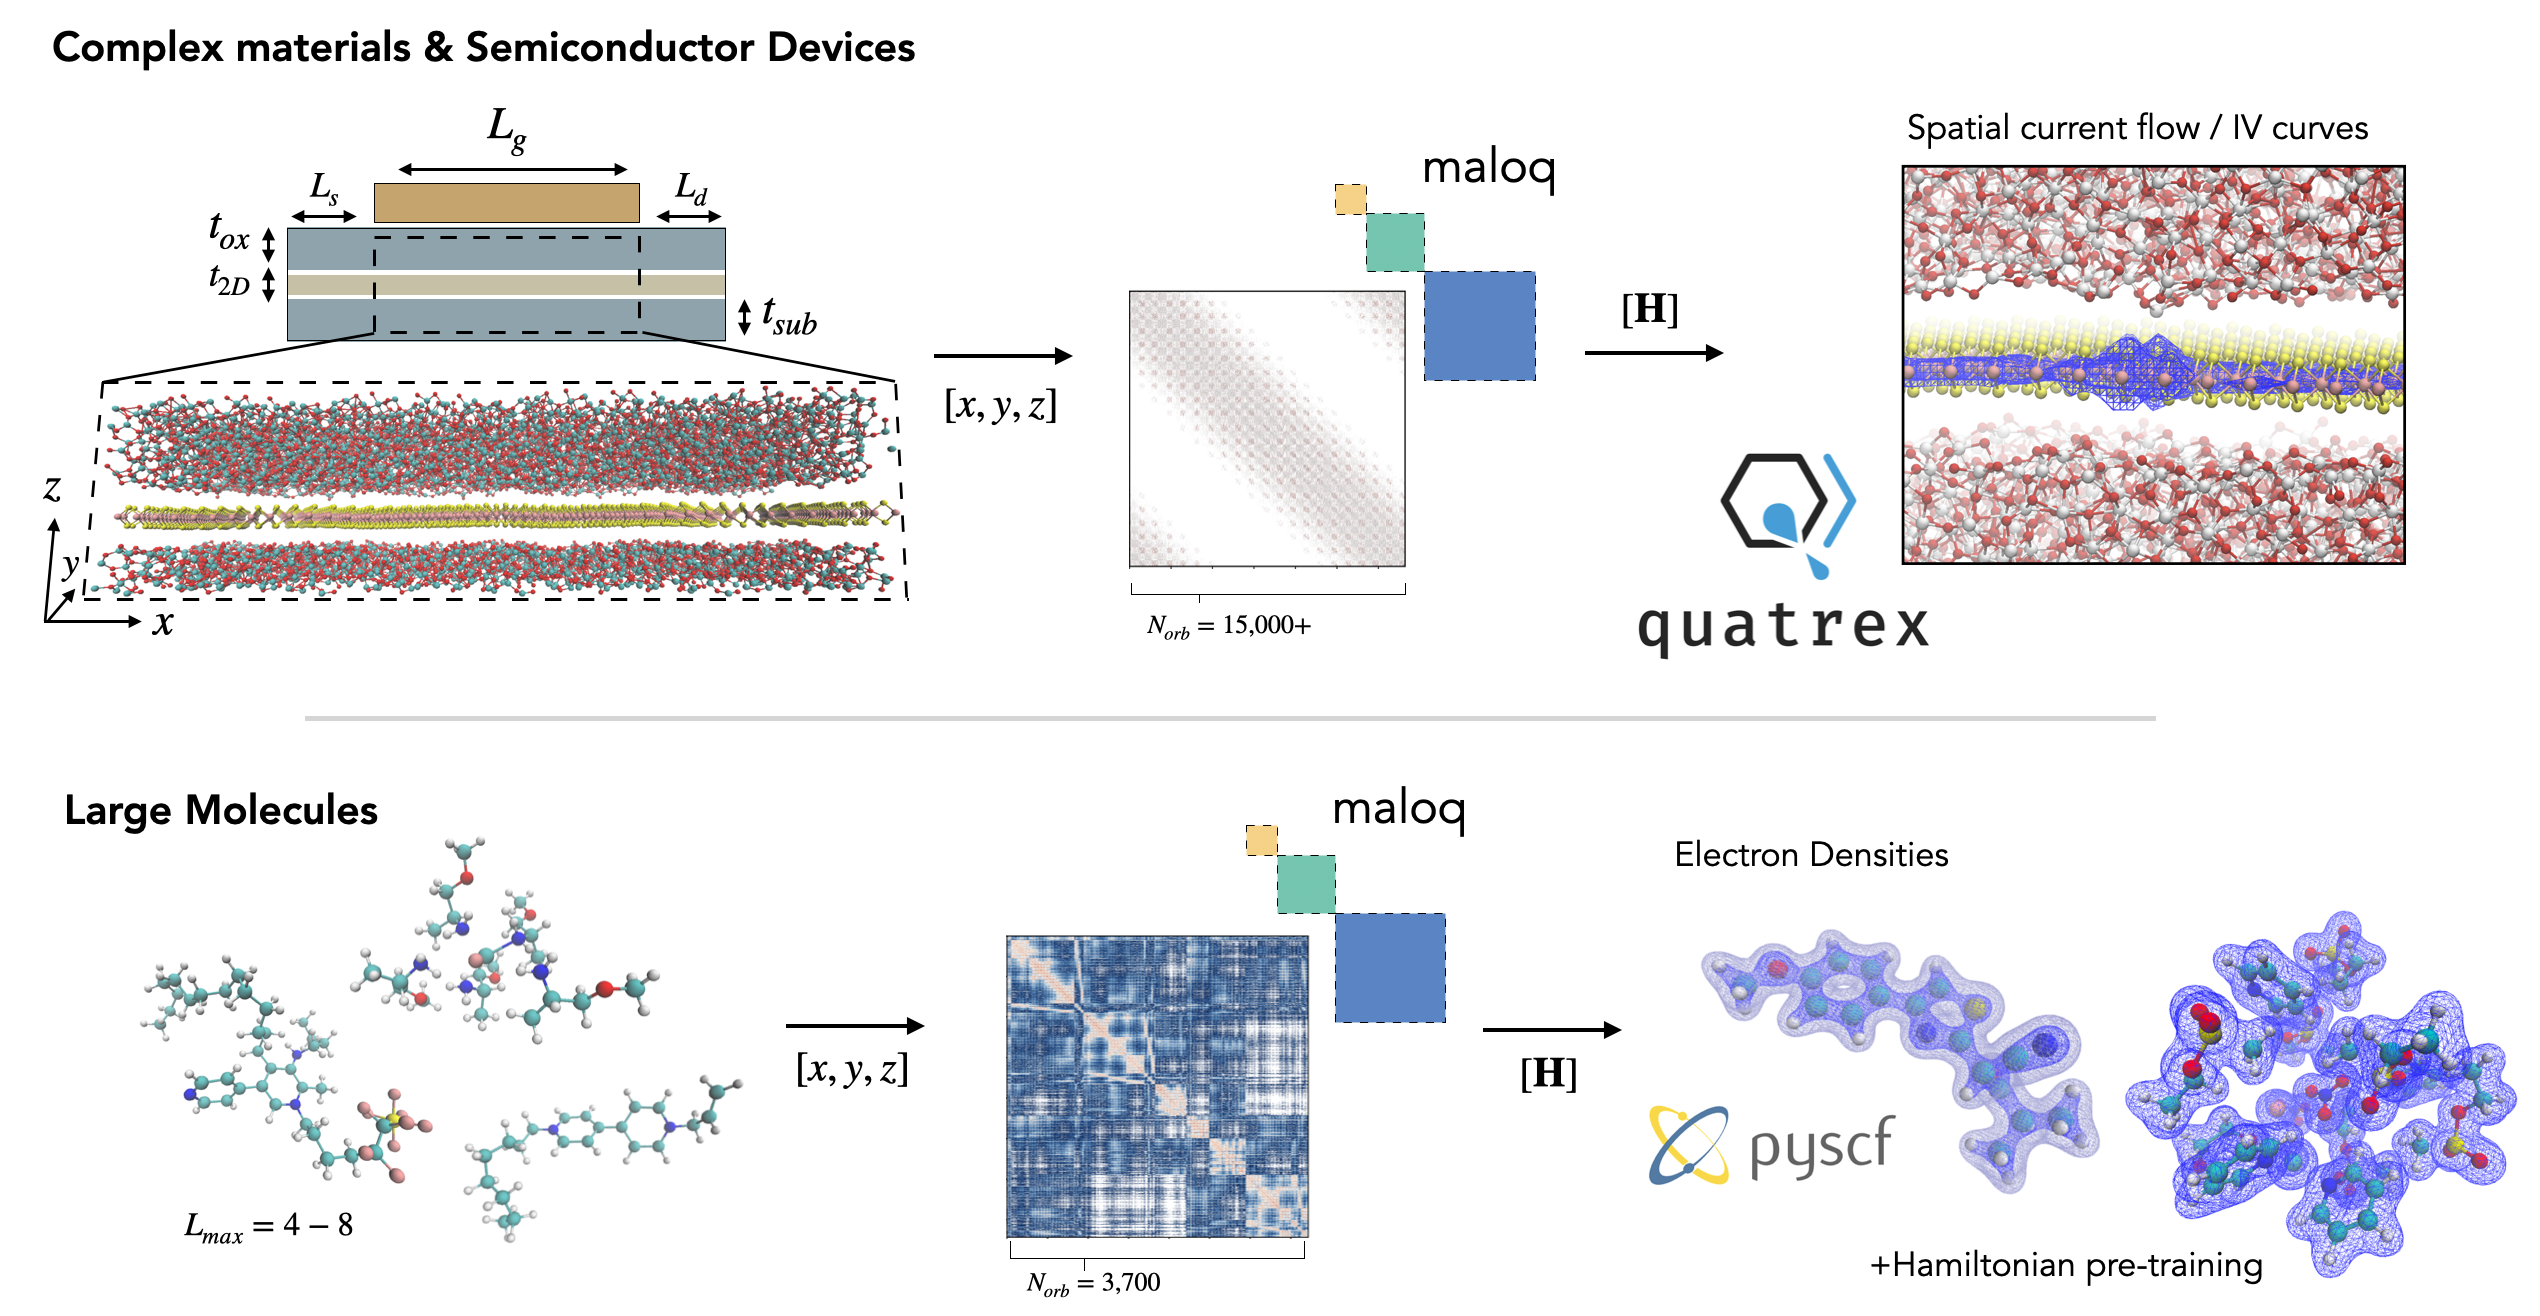
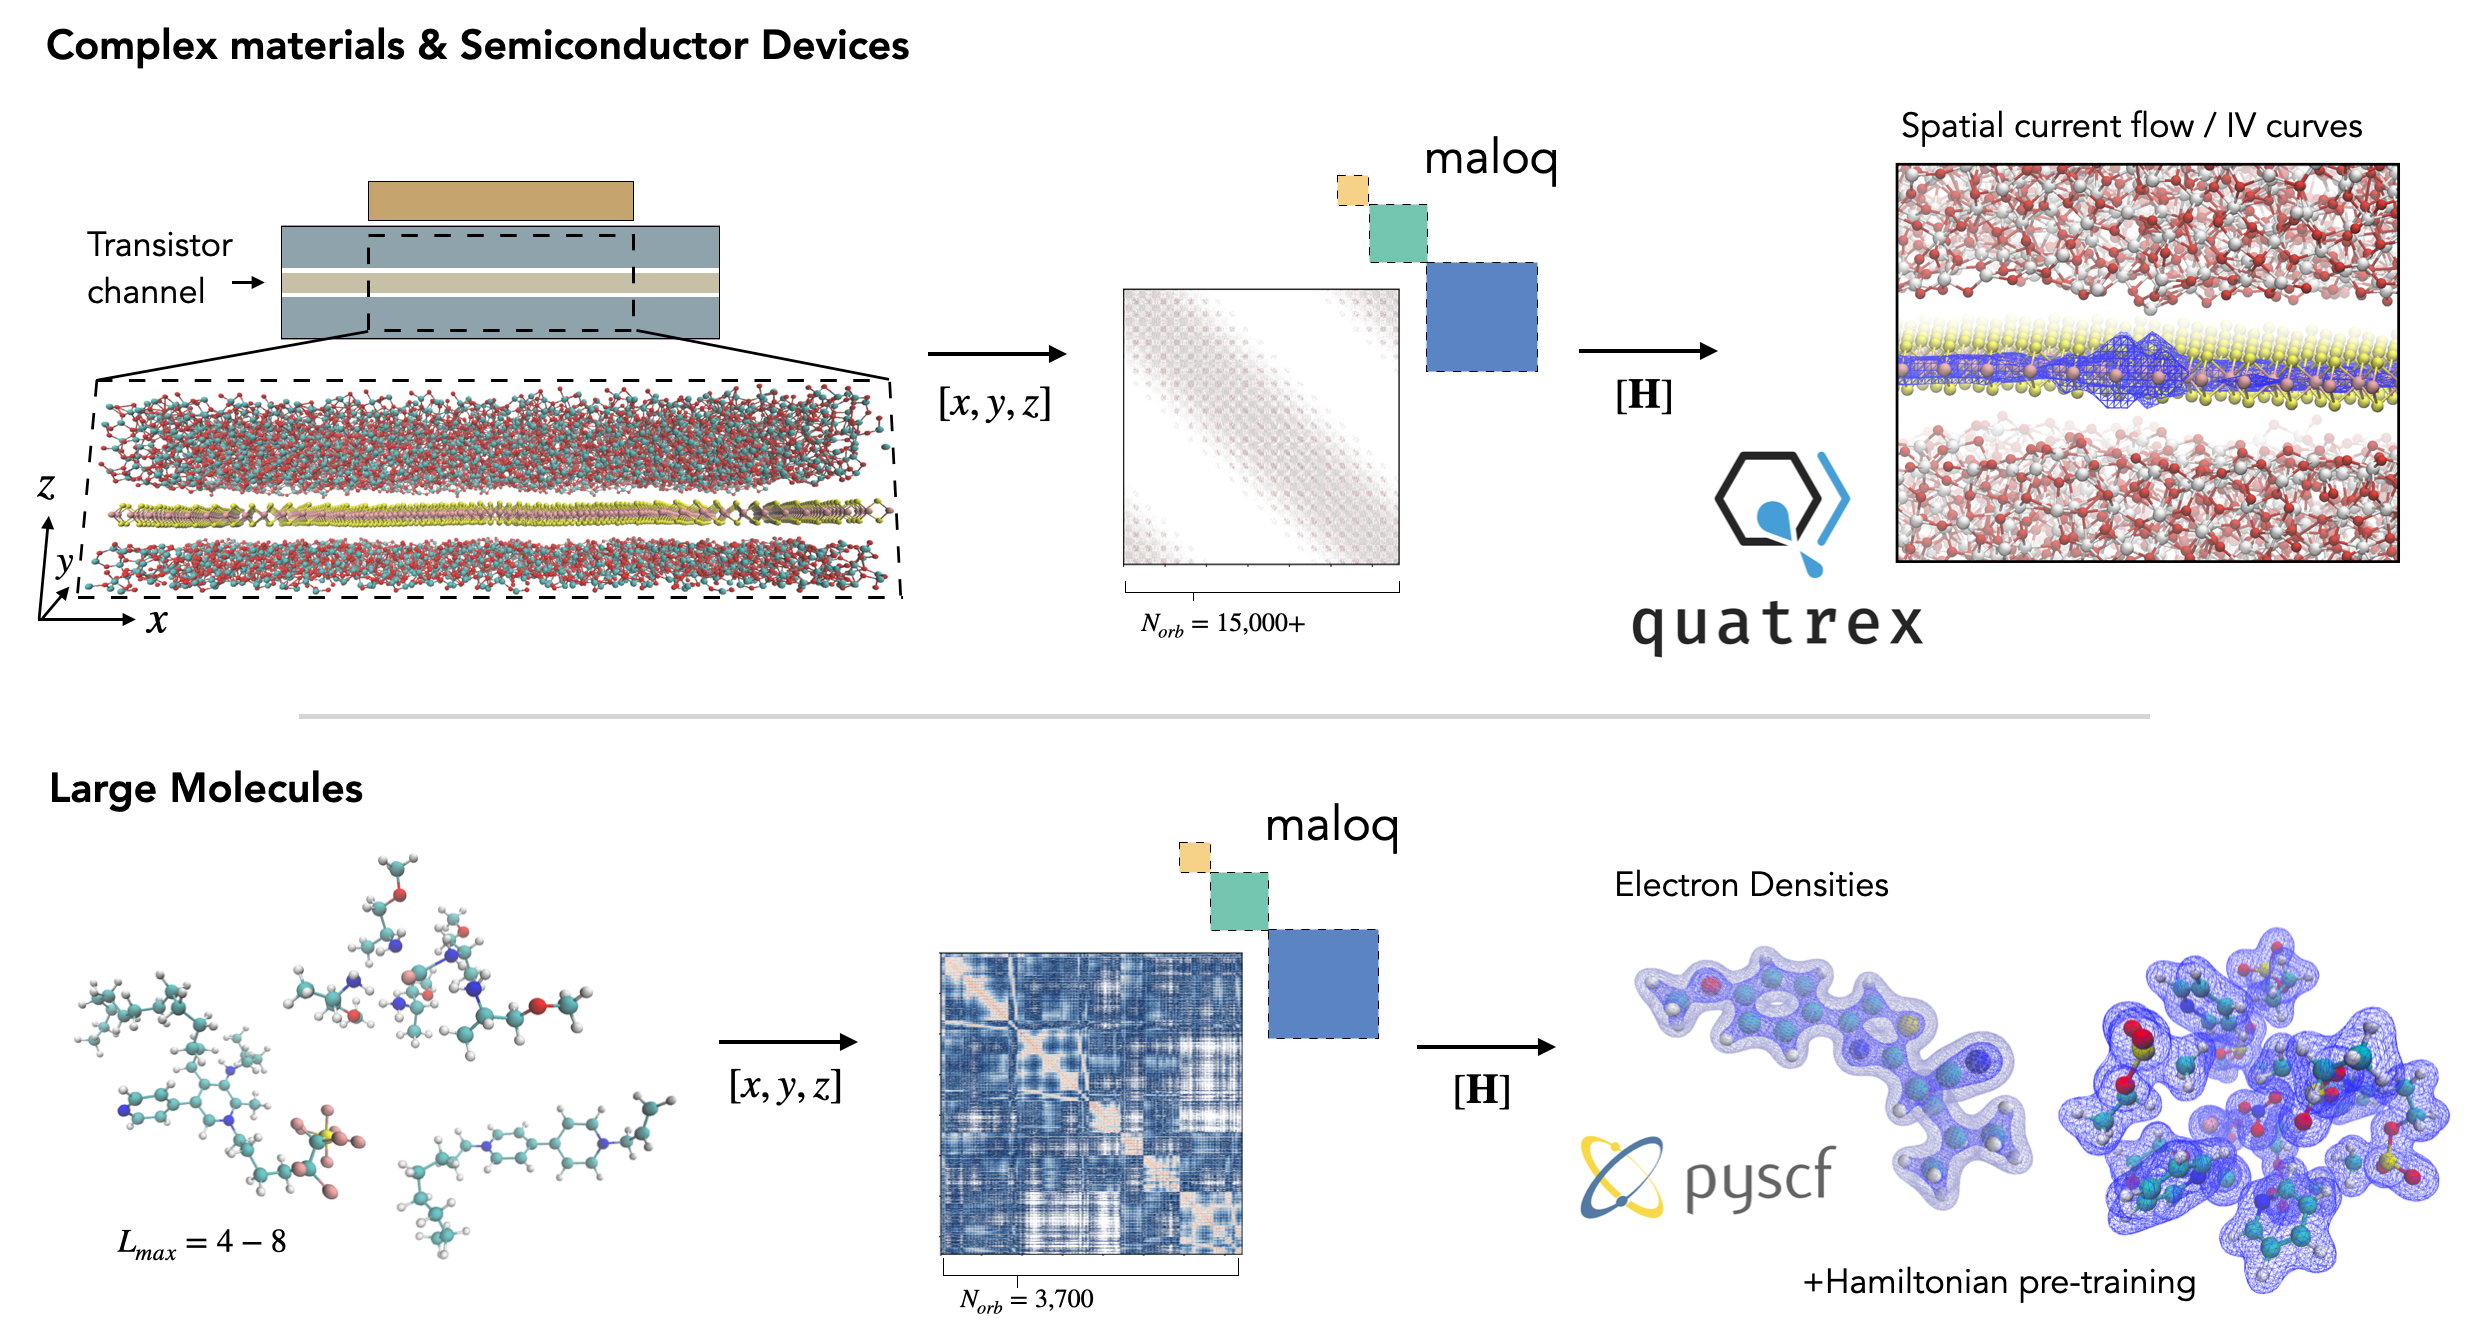
image updates

diff --git a/README.md b/README.md
@@ -1,7 +1,7 @@
 # MALOQ - Massively Accelerated Learning of Operators for Quantum-transport
 
 <p align="center">
-  <img src="/images/maloq.png" alt="MALOQ Logo" width="150" />
+  <img src="/images/maloq.pdf" alt="MALOQ Logo" width="150" />
 </p>
 
 <p align="center">
